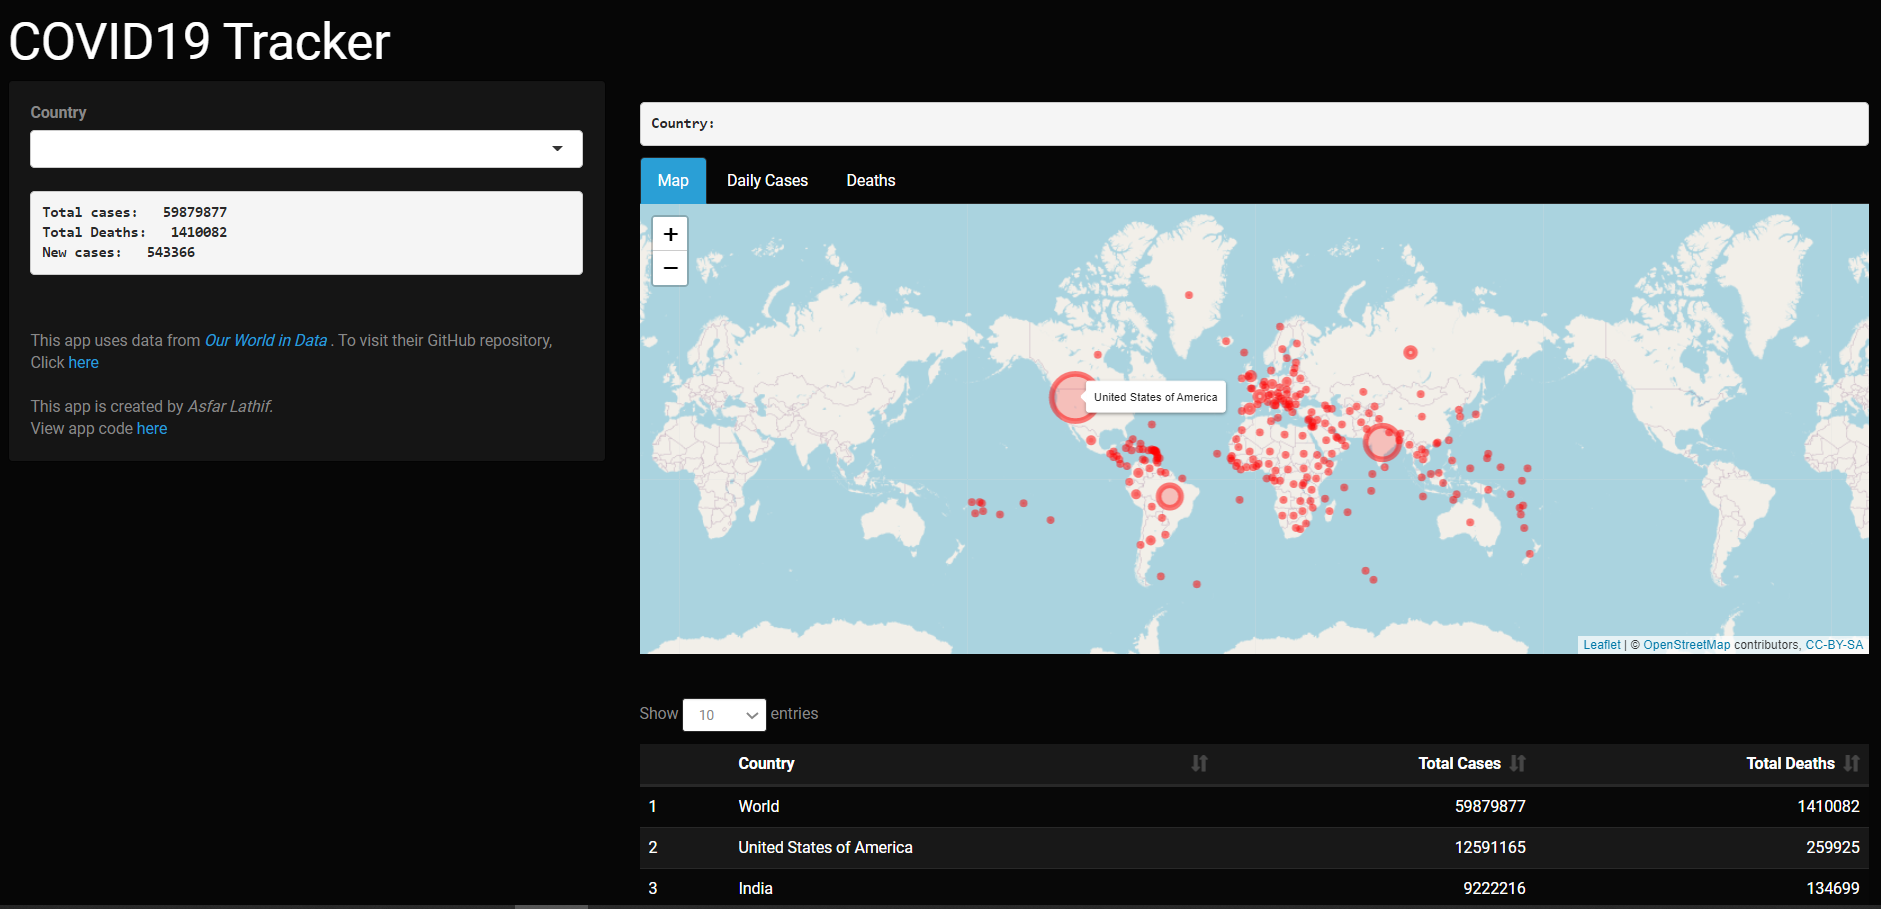
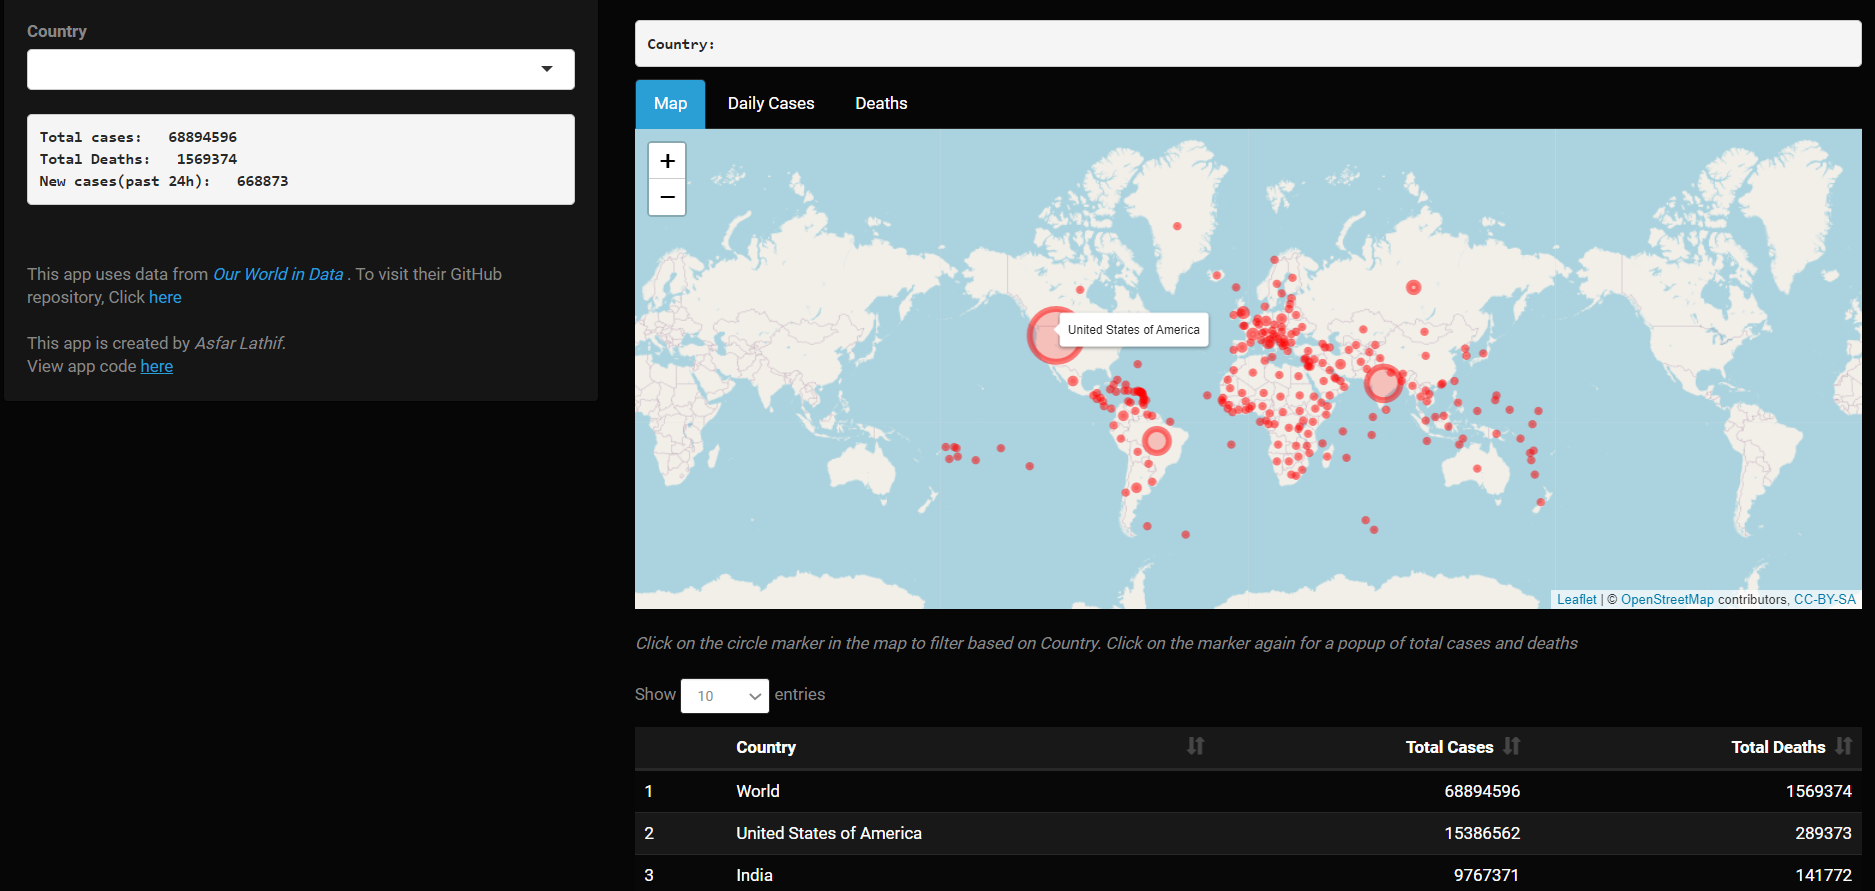
Updates

diff --git a/README.md b/README.md
@@ -1,6 +1,6 @@
 ## COVID19 Tracker
 
-**COVID19 Tracker** is an application to track the number of cases and deaths due to COVID19 recorded worldwide and in each countries from 31st December 2019 to present day.
+**COVID19 Tracker** is an application to track the number of cases and deaths due to COVID19 recorded worldwide and in each countries from first date on record to present day.
 
 !["Map Tab"](images/home.png)
 
@@ -10,9 +10,11 @@ There are three tabs in the application: **Map**, **Cases**, **Deaths**
 
 The main page ("Map" tab) of the application has an interactive *leaflet* map that shows total number of cases in each country as you hover over it. Below the map is a  data table with information of the total number of recorded cases and deaths in all countries.
 
-!["Country Filter"](images/country.png)
+!["Country Filter"](images/country.PNG)
 
-The "Cases" and "Deaths" tab have a bar graph showing number of **new** cases and deaths respectively recorded everyday. By default this shows data from 31st December 2019 to present day. Below the plot is a downloadable table that contains details on new cases/deaths and total number cases/deaths for each day. 
+Countries can be filtered either through te dropdown menu on the left panel or by clicking markers on the map
+
+The "Cases" and "Deaths" tab have a bar graph showing number of **new** cases and deaths respectively recorded everyday. By default this shows data from first date on record to present day. Below the plot is a downloadable table that contains details on new cases/deaths and total number cases/deaths for each day. 
 
 !["Zooming in on Case graph"](images/zoomin.png)
 
